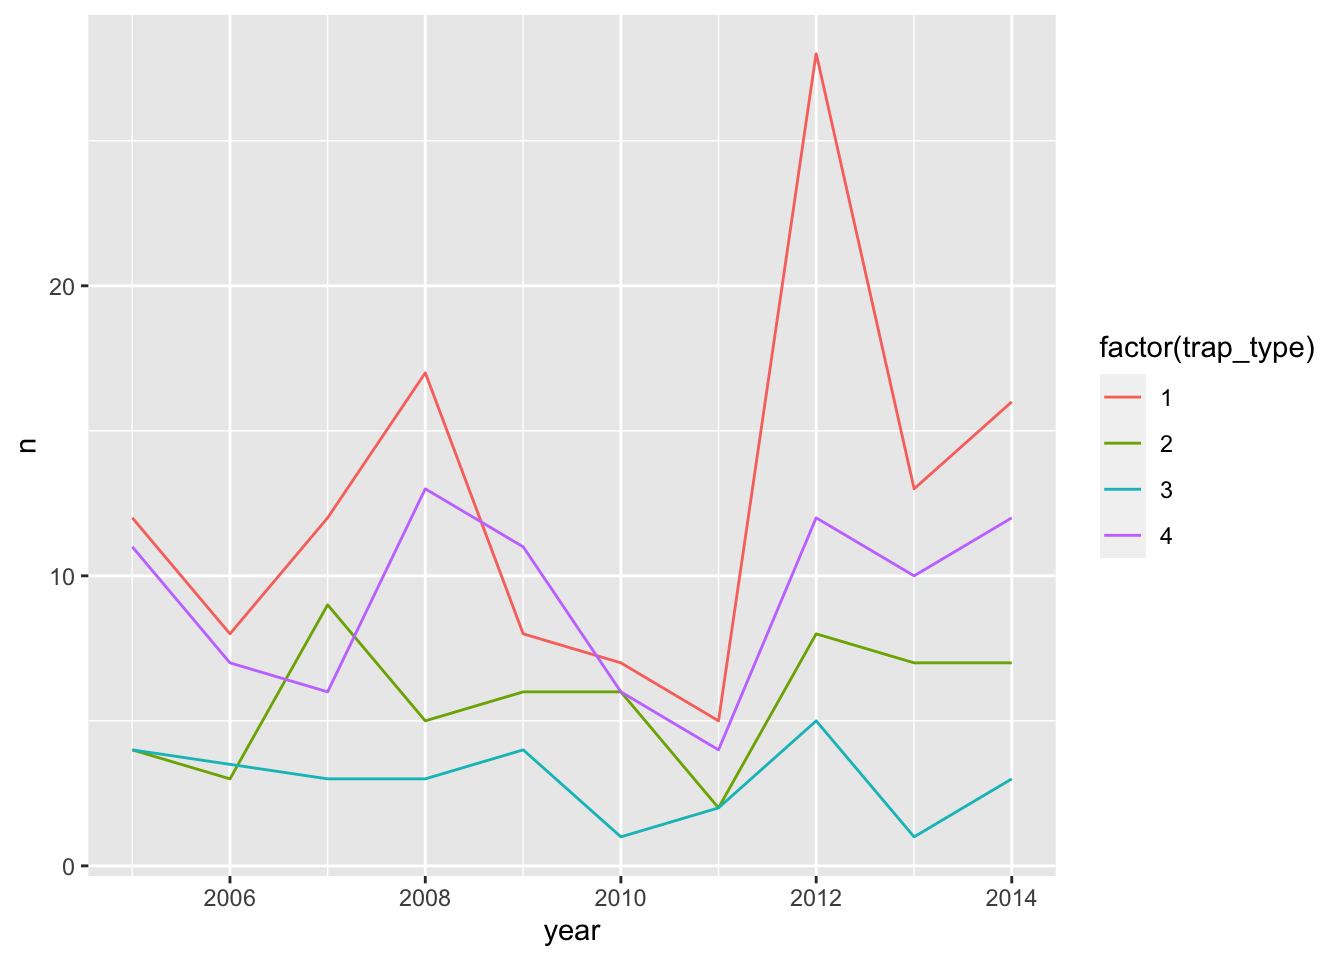
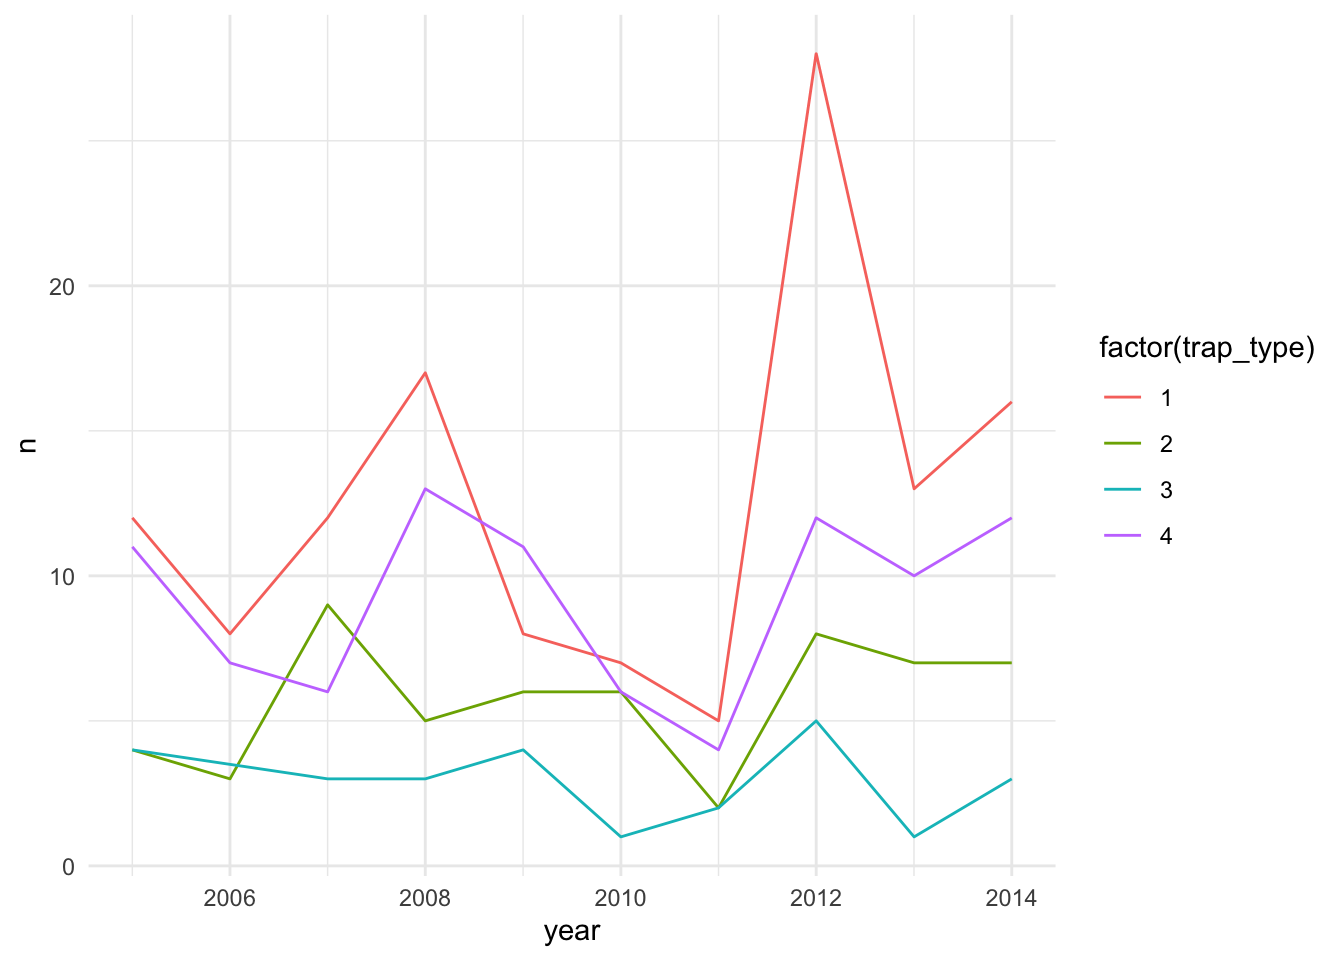
updated requisites

diff --git a/ES/index.html b/ES/index.html
@@ -307,6 +307,36 @@ hacer sus propias figuras como este ejemplo:</p>
 <center>
 <img src="img/0_figArrangement.png" style="width:60.0%" />
 </center>
+<div id="requisitos" class="section level1">
+<h1>Requisitos</h1>
+<p>Este workshop asume que los participantes tienen un entendimiento
+basico sobre la syntaxis del lenguaje de programacion R. Materiales
+pre-workshop <em>opcionales</em> se encuentran disponibles para
+familiarizar a los participantes con los conceptos basicos que
+asumiremos los participantes estan familiarizados al empezar el
+workshop.</p>
+<ul>
+<li><a
+href="https://www.spablo-temporal.network/DataViz-workshop/0a_Intro_RstudioMarkdown.html">Intro
+to R</a></li>
+<li><a
+href="https://www.spablo-temporal.network/DataViz-workshop/0b_RandTidyverse.html">Basic
+R syntax</a></li>
+</ul>
+<p>Para participar en el curso es necesario contar con las siquientes
+herramientas:</p>
+<ul>
+<li>Computadora</li>
+<li>Cuenta de posit.cloud o tener instalado R y R Studio</li>
+</ul>
+</div>
+<div id="registro" class="section level1">
+<h1>Registro</h1>
+<p>Para registrarse al curso, use este enlace: <a
+href="https://docs.google.com/forms/u/1/d/e/1FAIpQLSfXtdQ6ZMFr6sgZVfTRVY8M32UxJy288-P5cUSNYa6IVILMtQ/viewform"
+class="uri">https://docs.google.com/forms/u/1/d/e/1FAIpQLSfXtdQ6ZMFr6sgZVfTRVY8M32UxJy288-P5cUSNYa6IVILMtQ/viewform</a></p>
+<hr />
+</div>
 <div id="horario-tentativo" class="section level1">
 <h1>Horario tentativo</h1>
 <table class=" lightable-paper lightable-hover" style="font-family: &quot;Arial Narrow&quot;, arial, helvetica, sans-serif; margin-left: auto; margin-right: auto;">
@@ -394,35 +424,6 @@ June 10, 2023
 </tbody>
 </table>
 <hr />
-</div>
-<div id="requisitos" class="section level1">
-<h1>Requisitos</h1>
-<p>Este workshop asume que los participantes tienen un entendimiento
-basico sobre la syntaxis del lenguaje de programacion R. Materiales
-pre-workshop <em>opcionales</em> se encuentran disponibles para
-familiarizar a los participantes con los conceptos basicos que
-asumiremos los participantes estan familiarizados al empezar el
-workshop.</p>
-<ul>
-<li><a
-href="https://www.spablo-temporal.network/DataViz-workshop/0a_Intro_RstudioMarkdown.html">Intro
-to R</a></li>
-<li><a
-href="https://www.spablo-temporal.network/DataViz-workshop/0b_RandTidyverse.html">Basic
-R syntax</a></li>
-</ul>
-<p>Para participar en el curso es necesario contar con las siquientes
-herramientas:</p>
-<ul>
-<li>Computadora</li>
-<li>Cuenta de posit.cloud o tener instalado R y R Studio</li>
-</ul>
-</div>
-<div id="registro" class="section level1">
-<h1>Registro</h1>
-<p>Para registrarse al curso, use este enlace: <a
-href="https://docs.google.com/forms/u/1/d/e/1FAIpQLSfXtdQ6ZMFr6sgZVfTRVY8M32UxJy288-P5cUSNYa6IVILMtQ/viewform"
-class="uri">https://docs.google.com/forms/u/1/d/e/1FAIpQLSfXtdQ6ZMFr6sgZVfTRVY8M32UxJy288-P5cUSNYa6IVILMtQ/viewform</a></p>
 </div>
 
 

diff --git a/index.html b/index.html
@@ -306,6 +306,30 @@ comfortable with making arrangements such as this:</p>
 <center>
 <img src="img/0_figArrangement.png" style="width:60.0%" />
 </center>
+<div id="requisites" class="section level1">
+<h1>Requisites</h1>
+<p>This workshop assumes that the participants have a basic familiarity
+with the programming language R. <em>Optional</em> pre-workshop
+materials are available for a crash course in R and cover some the basic
+concepts we will assume you know before the workshop:</p>
+<ul>
+<li><a href="0a_Intro_RstudioMarkdown.html">Intro to R</a></li>
+<li><a href="0b_RandTidyverse.html">Basic R syntax</a></li>
+</ul>
+<p>To participate in the workshop is necessary to have the following
+tools:</p>
+<ul>
+<li>Computer</li>
+<li>posit.cloud account or have installed R and R Studio</li>
+</ul>
+</div>
+<div id="registration-link" class="section level1">
+<h1>Registration link</h1>
+<p>To register the workshop please use this link: <a
+href="https://docs.google.com/forms/u/1/d/e/1FAIpQLSfXtdQ6ZMFr6sgZVfTRVY8M32UxJy288-P5cUSNYa6IVILMtQ/viewform"
+class="uri">https://docs.google.com/forms/u/1/d/e/1FAIpQLSfXtdQ6ZMFr6sgZVfTRVY8M32UxJy288-P5cUSNYa6IVILMtQ/viewform</a></p>
+<hr />
+</div>
 <div id="tentative-schedule" class="section level1">
 <h1>Tentative schedule</h1>
 <table class=" lightable-paper lightable-hover" style="font-family: &quot;Arial Narrow&quot;, arial, helvetica, sans-serif; margin-left: auto; margin-right: auto;">
@@ -385,29 +409,6 @@ June 10, 2023
 </tbody>
 </table>
 <hr />
-</div>
-<div id="requisites" class="section level1">
-<h1>Requisites</h1>
-<p>This workshop assumes that the participants have a basic familiarity
-with the programming language R. <em>Optional</em> pre-workshop
-materials are available for a crash course in R and cover some the basic
-concepts we will assume you know before the workshop:</p>
-<ul>
-<li><a href="0a_Intro_RstudioMarkdown.html">Intro to R</a></li>
-<li><a href="0b_RandTidyverse.html">Basic R syntax</a></li>
-</ul>
-<p>To participate in the workshop is necessary to have the following
-tools:</p>
-<ul>
-<li>Computer</li>
-<li>posit.cloud account or have installed R and R Studio</li>
-</ul>
-</div>
-<div id="registration-link" class="section level1">
-<h1>Registration link</h1>
-<p>To register the workshop please use this link: <a
-href="https://docs.google.com/forms/u/1/d/e/1FAIpQLSfXtdQ6ZMFr6sgZVfTRVY8M32UxJy288-P5cUSNYa6IVILMtQ/viewform"
-class="uri">https://docs.google.com/forms/u/1/d/e/1FAIpQLSfXtdQ6ZMFr6sgZVfTRVY8M32UxJy288-P5cUSNYa6IVILMtQ/viewform</a></p>
 <!-- -   Introduccion a ggplot -->
 <!-- -   Tipos de graficos -->
 <!-- -   Temas y opciones customizacion -->

diff --git a/DataViz_II.html b/DataViz_II.html
@@ -419,7 +419,8 @@ figures$scatter</code></pre>
 
 figures$timeseries &lt;- tCaptures %&gt;% 
   ggplot() +
-  geom_line(aes(x = year, y = n, col = factor(trap_type))) 
+  geom_line(aes(x = year, y = n, col = factor(trap_type))) +
+  theme_minimal()
 
 figures$timeseries</code></pre>
 <p><img src="DataViz_II_files/figure-html/unnamed-chunk-3-1.png" width="672" /></p>
@@ -478,8 +479,12 @@ values</h2>
 <p>When using categorical variables we define a specific color palette.
 For this we need to know how many categories our variable has. For
 example</p>
-<pre class="r"><code>figures$bars &lt;- figures$bars +
-  scale_fill_manual(values = c(&#39;gold2&#39;, &#39;seagreen3&#39;, &#39;red2&#39;, &#39;orchid&#39;)) # We know our variable has 4 categories, so we define 4 colors
+<pre class="r"><code># Define a oclor palette
+colpal &lt;- c(&#39;gold2&#39;, &#39;seagreen3&#39;, &#39;red2&#39;, &#39;orchid&#39;)
+
+# Make the figure
+figures$bars &lt;- figures$bars +
+  scale_fill_manual(values = colpal) # We know our variable has 4 categories, so we define 4 colors
 
 figures$bars</code></pre>
 <p><img src="DataViz_II_files/figure-html/categorical%20scales-1.png" width="672" /></p>
@@ -538,7 +543,8 @@ lab &lt;- tCaptures %&gt;%
   filter(year == min(year))
 
 figures$timeseries +
-  geom_label_repel(data = lab, aes(x = year, y = n, label = paste(&#39;Trap \n type: &#39;, trap_type), fill = factor(trap_type)), alpha = 0.6, size = 3)</code></pre>
+  geom_label_repel(data = lab, aes(x = year, y = n, label = paste(&#39;Trap \n type: &#39;, trap_type), fill = factor(trap_type)), alpha = 0.6, size = 3) +
+  scale_color_manual(values = colpal)</code></pre>
 <p><img src="DataViz_II_files/figure-html/unnamed-chunk-6-1.png" width="672" /></p>
 </div>
 </div>
